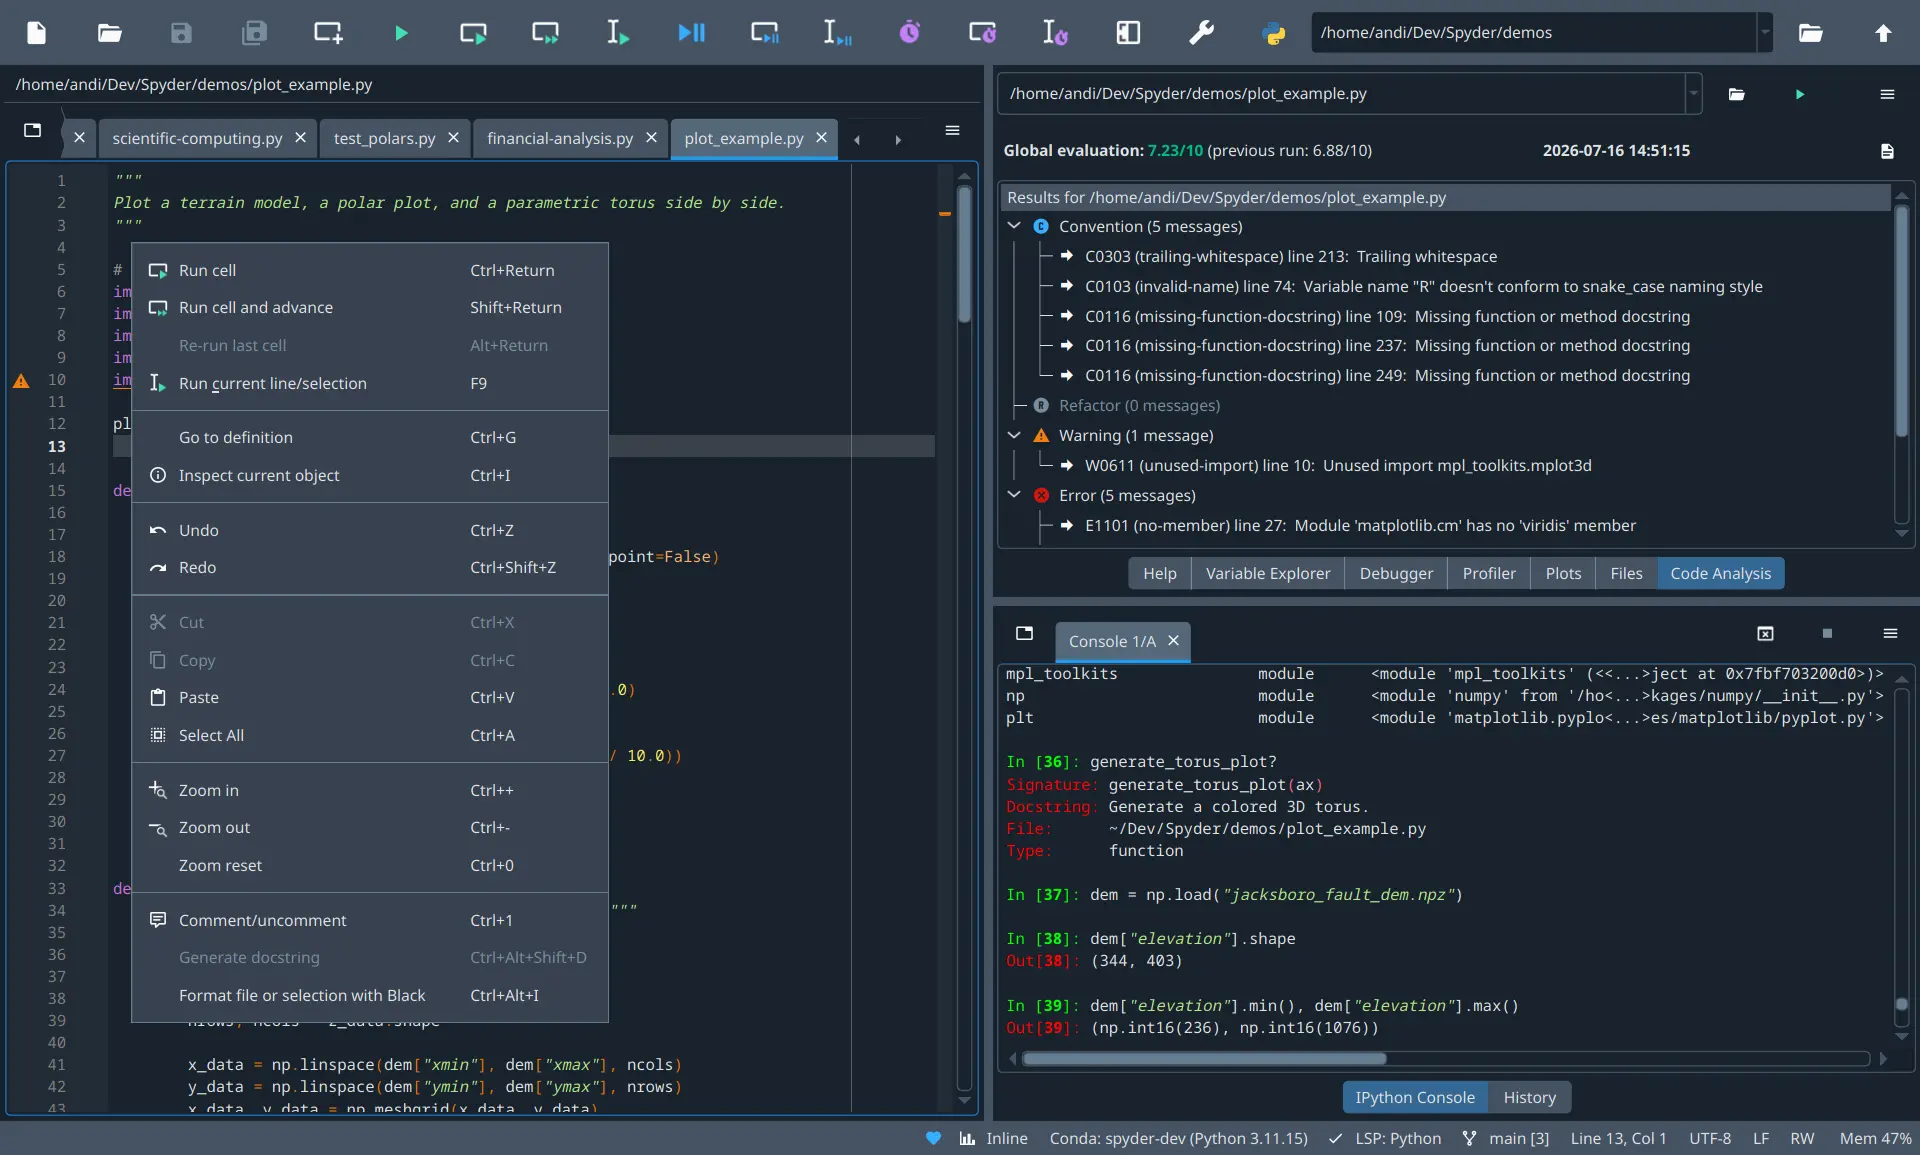
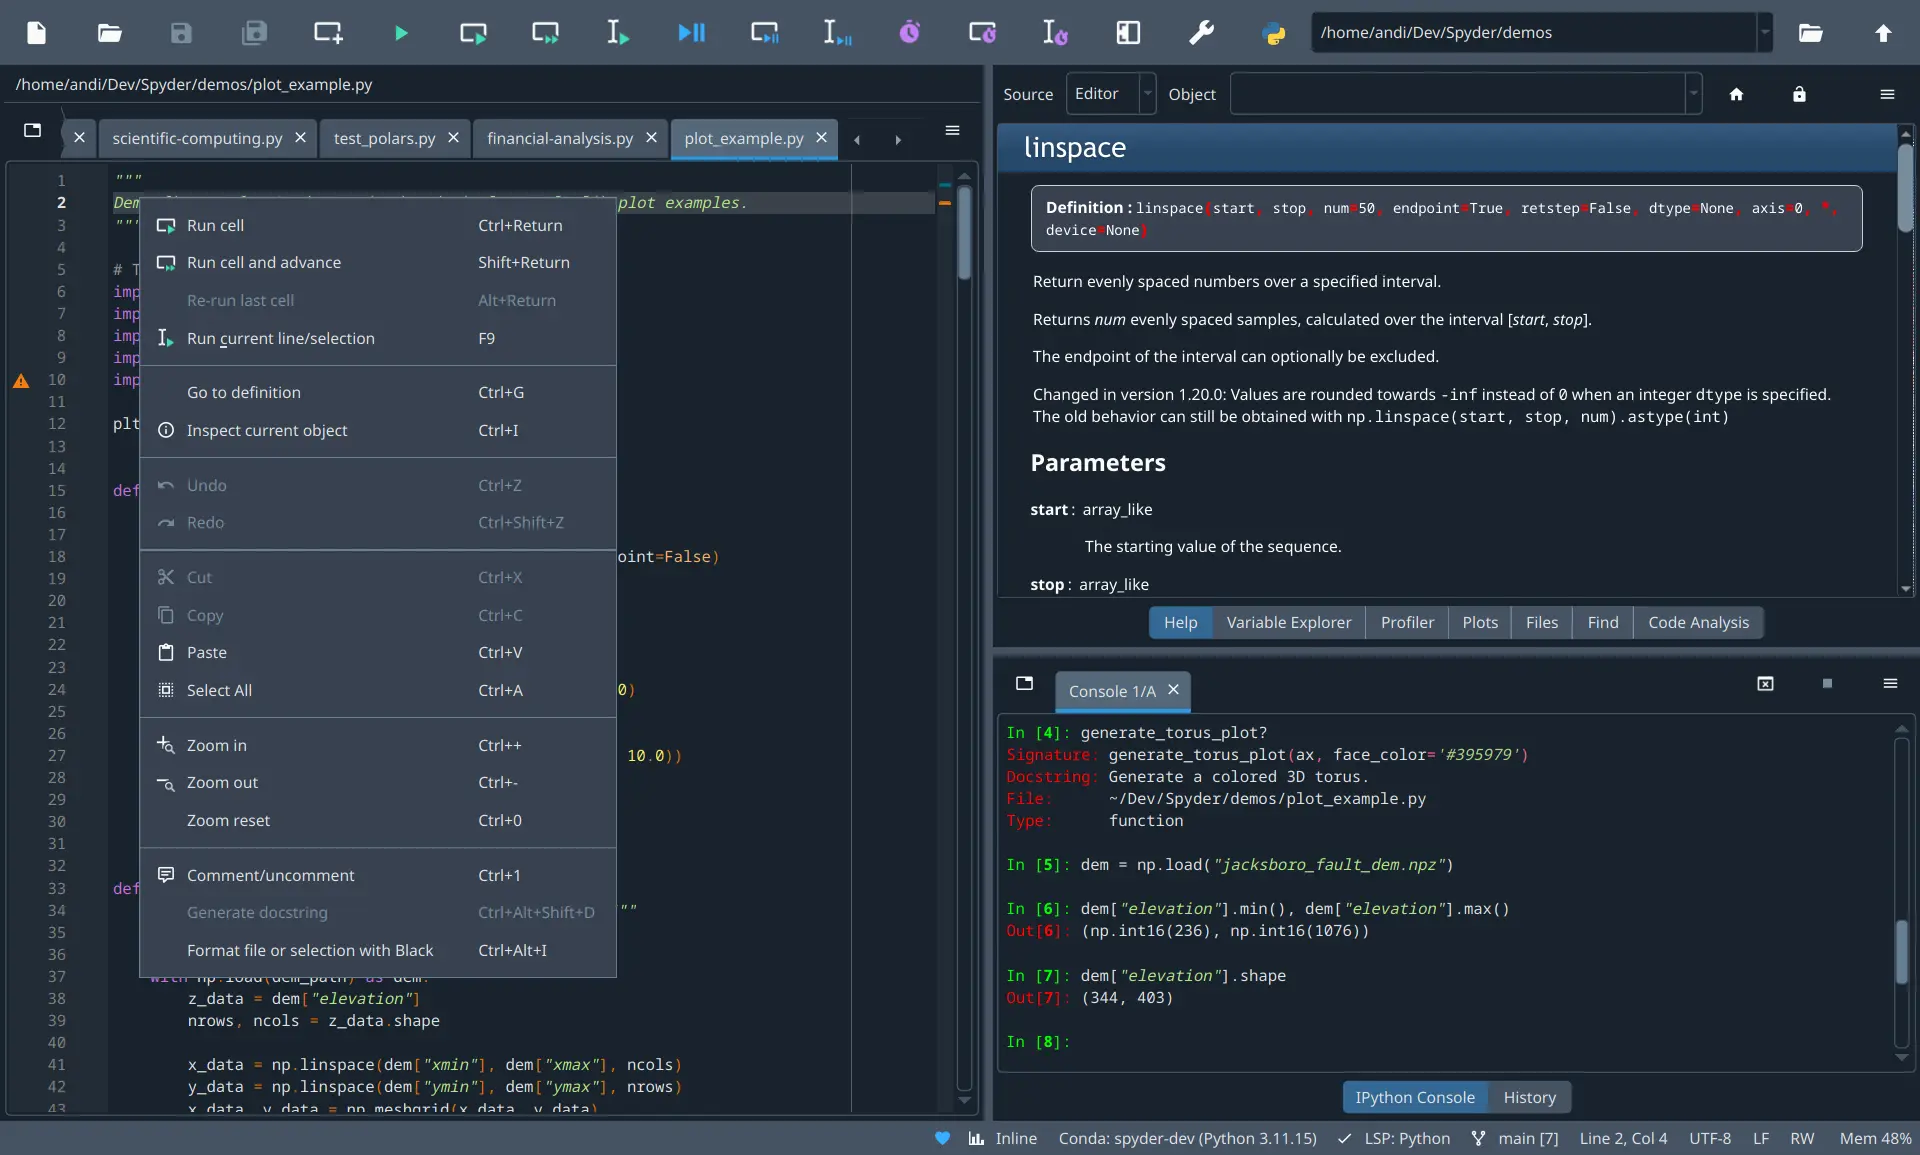
Display help in context menu image

Changed region(s): [[0.0625, 0.0623, 1.0, 0.9351], [0.4688, 0.9662, 0.8438, 0.9974], [0.9688, 0.8104, 1.0, 0.8727]]

diff --git a/doc/quickstart.rst b/doc/quickstart.rst
@@ -27,7 +27,7 @@ Finally, you'll get to walk through some of Spyder's key panes and functionality
         <rect id="toolbar-rect" class="highlight-rect tour-default-layout-main" x="2" y="2" width="1276" height="40" />
         <rect id="statusbar-rect" class="highlight-rect tour-default-layout-main" x="2" y="745" width="1276" height="23" />
         <rect id="options-menu-rect" class="highlight-rect tour-options-menu" x="617" y="70" width="245" height="553" />
-        <rect id="context-menu-rect" class="highlight-rect tour-context-menu" x="85" y="160" width="320" height="520" />
+        <rect id="context-menu-rect" class="highlight-rect tour-context-menu" x="90" y="132" width="320" height="520" />
         <rect id="editor-rect" class="highlight-rect tour-default-layout-main" x="2" y="45" width="650" height="700" />
         <rect id="console-rect" class="highlight-rect tour-default-layout-main" x="660" y="460" width="618" height="290" />
         <rect id="help-rect" class="highlight-rect tour-default-layout-main" x="660" y="46" width="618" height="413" />
